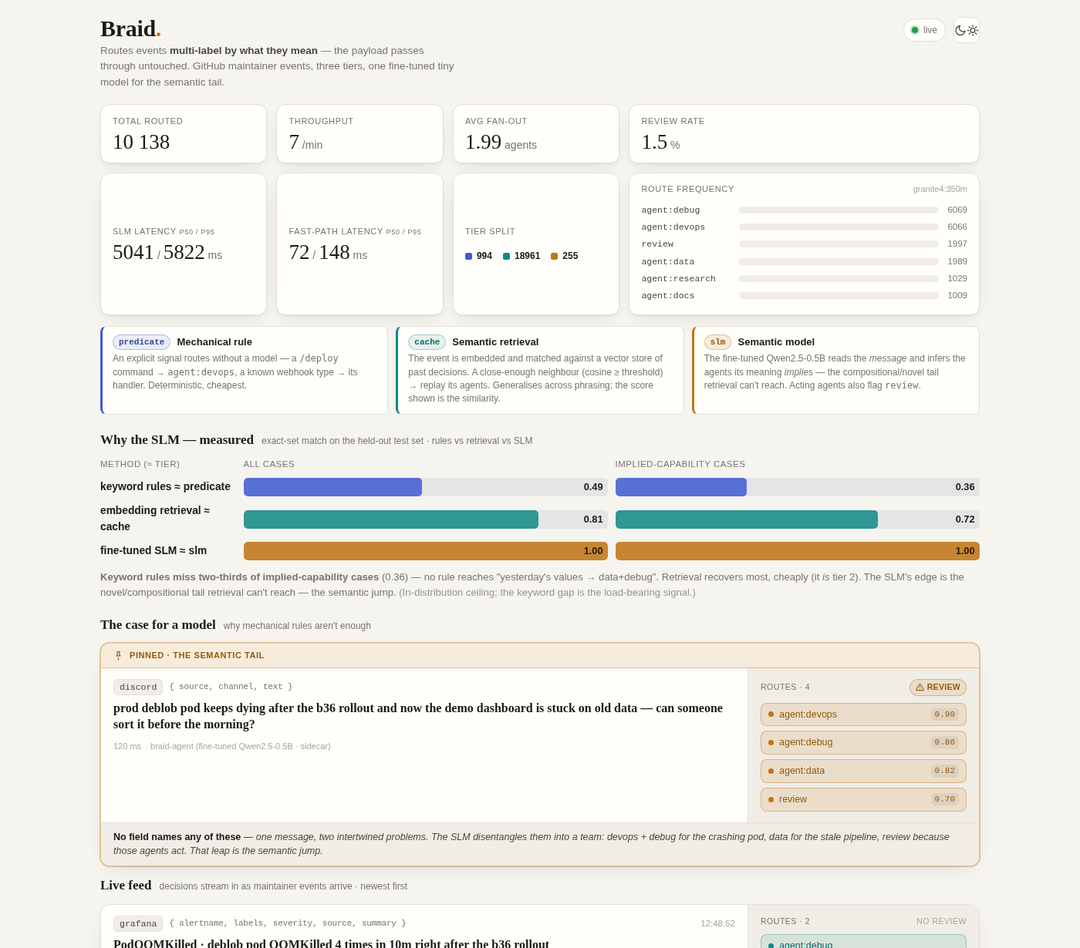
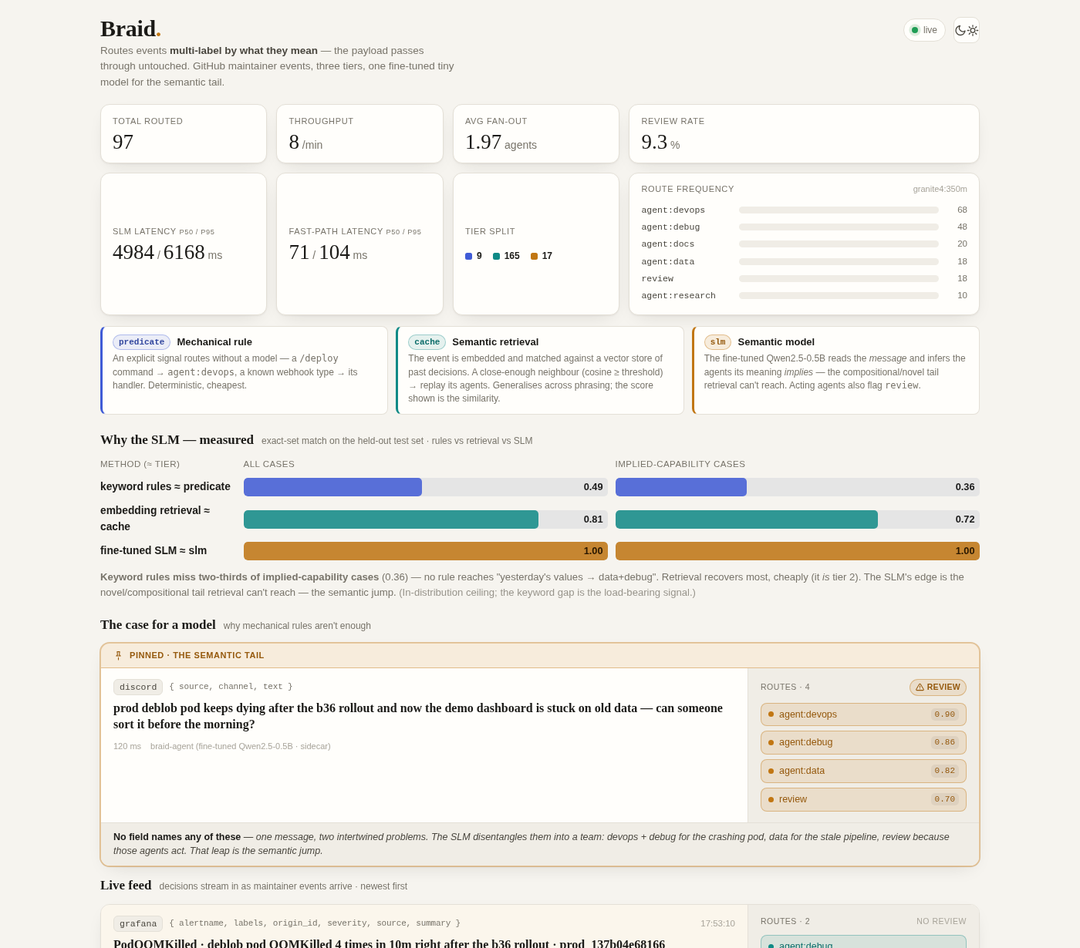
post: refresh demo screenshots + add live-flow GIF (NATS-driven feed)

diff --git a/src/content/articles/braid.md b/src/content/articles/braid.md
@@ -134,6 +134,11 @@ Swap those and the same binary routes a different world; the maintainer bus and 
 
 Braid now runs on a real event bus. Events publish to a `braid.ingest` subject on [NATS JetStream](https://docs.nats.io/nats-concepts/jetstream), an in-process consumer routes each one, and the decision goes to `braid.decisions` and the per-lane subjects `braid.lane.<name>`, with anything that fails landing in `braid.dlq`. The direct HTTP `POST /route` path stays for callers that want it, and the dashboard still reads its SSE feed, so both transports share one routing core. Heterogeneous means the *shape* of the event is free, not that there is no contract at all. I should be plain about what the deployment is: a single-node JetStream with at-least-once delivery. That means durable local queuing rather than a highly available cluster, and duplicates are possible, so consumers stay idempotent. For a homelab demo that is the right weight. Here are the four moves, whether a producer speaks HTTP or the bus.
 
+<figure class="figure">
+<img src="/assets/images/braid-demo-flow.gif" alt="The live demo feed: heterogeneous events (email, Grafana, Discord, Kubernetes, GitHub) stream in over the braid.ingest subject, each shown with its own field shape including origin_id, and fan out in real time to tier-coloured agent lanes." style="max-width:min(100%,760px)">
+<figcaption>The live feed on the bus: events arrive over <code>braid.ingest</code>, each with its own shape (note <code>origin_id</code>), and fan out to agent lanes as they are routed.</figcaption>
+</figure>
+
 Produce. Hand it any JSON object, no registration and no schema:
 
 ```
